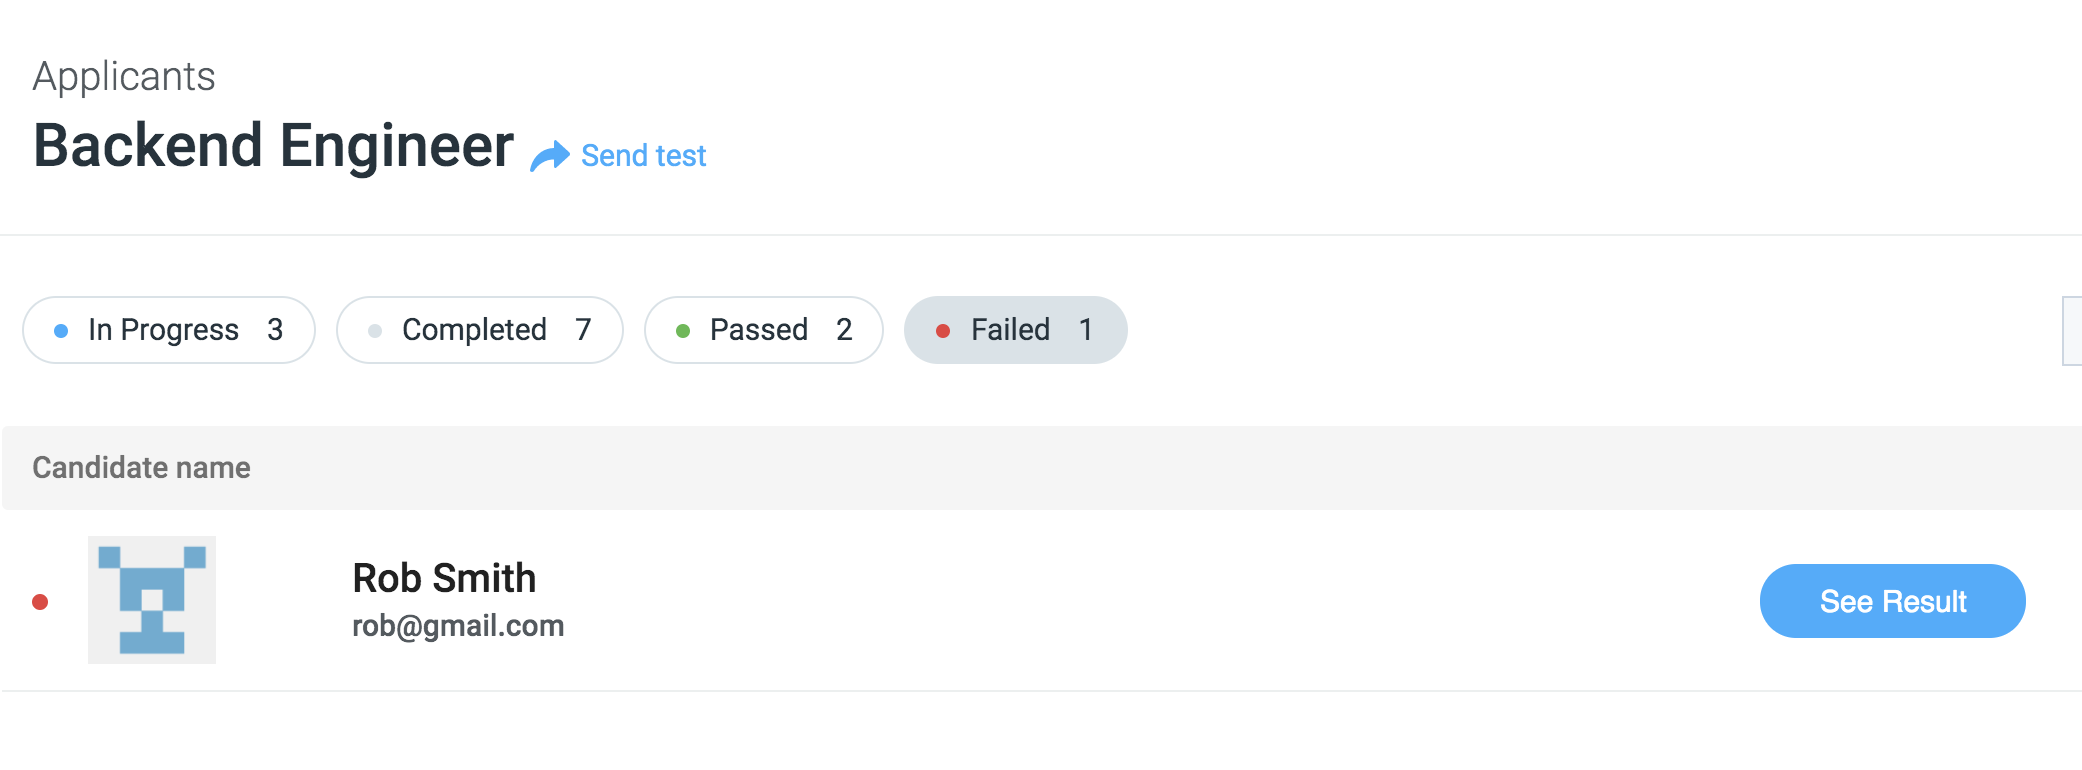
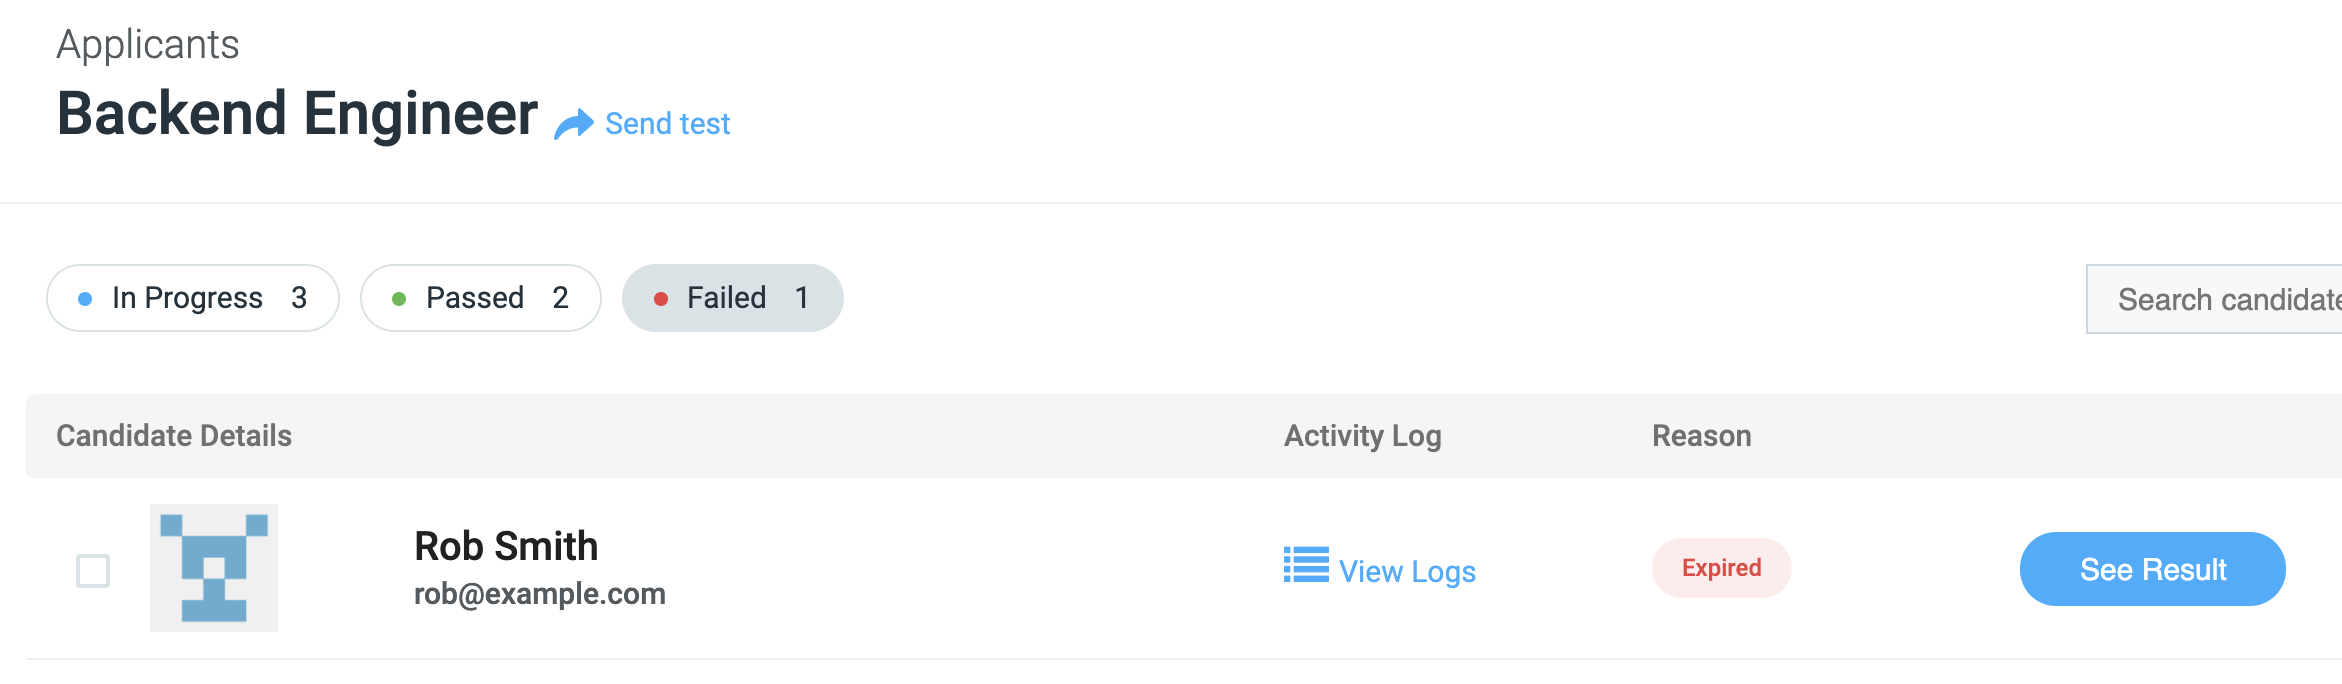
Updated Re-sending Tests doc

diff --git a/docs/resendingTests.md b/docs/resendingTests.md
@@ -10,8 +10,10 @@ If you would like to then re-send the test to the candidate, please follow these
 <figure>
   <figcaption style="font-style: italic;"></figcaption>
   </br>
-  <img style="max-width: 60%;" src="resendTest1.png" alt="Resend test"/>
+  <img style="max-width: 70%;" src="resendTest1.png" alt="Resend test"/>
 </figure>
+
+<br>
 
 **2.** You will then see the screen below.
 
@@ -22,6 +24,8 @@ If you would like to then re-send the test to the candidate, please follow these
 </figure>
 
 Please click the green `Resend test` button.
+
+<br>
 
 **3.** You will then see the following pop-up:
 
